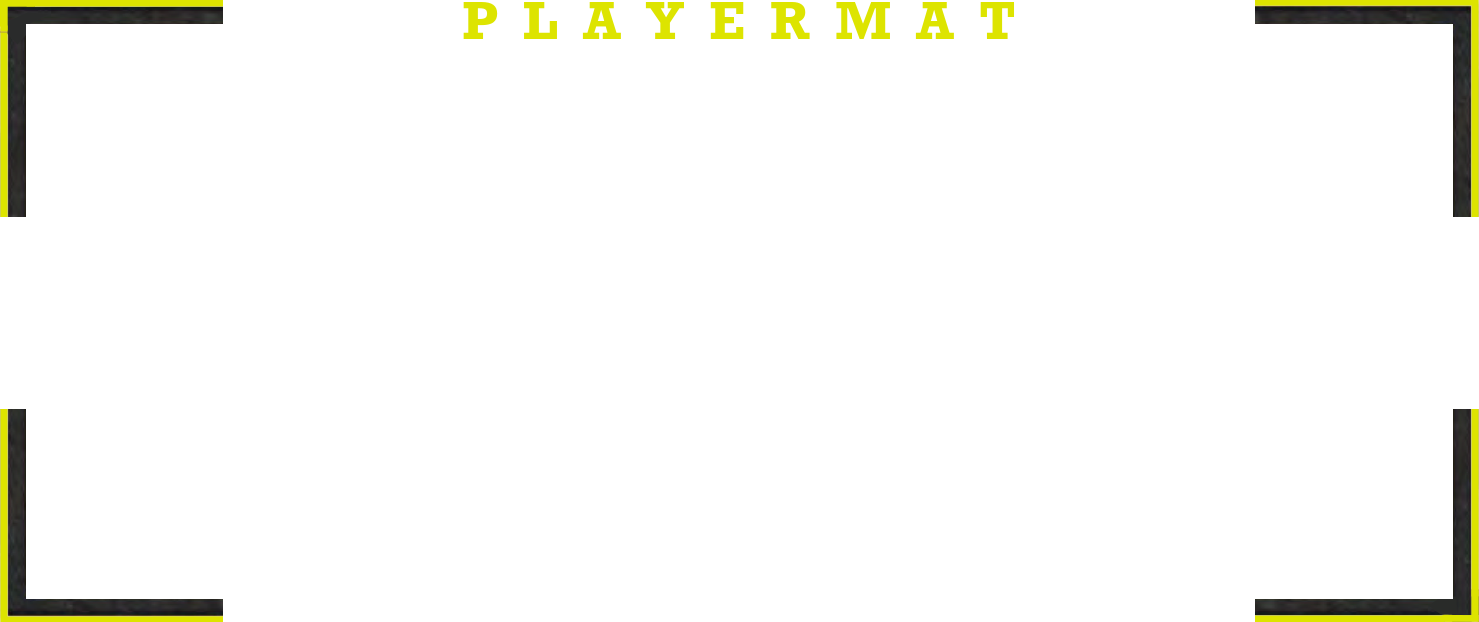
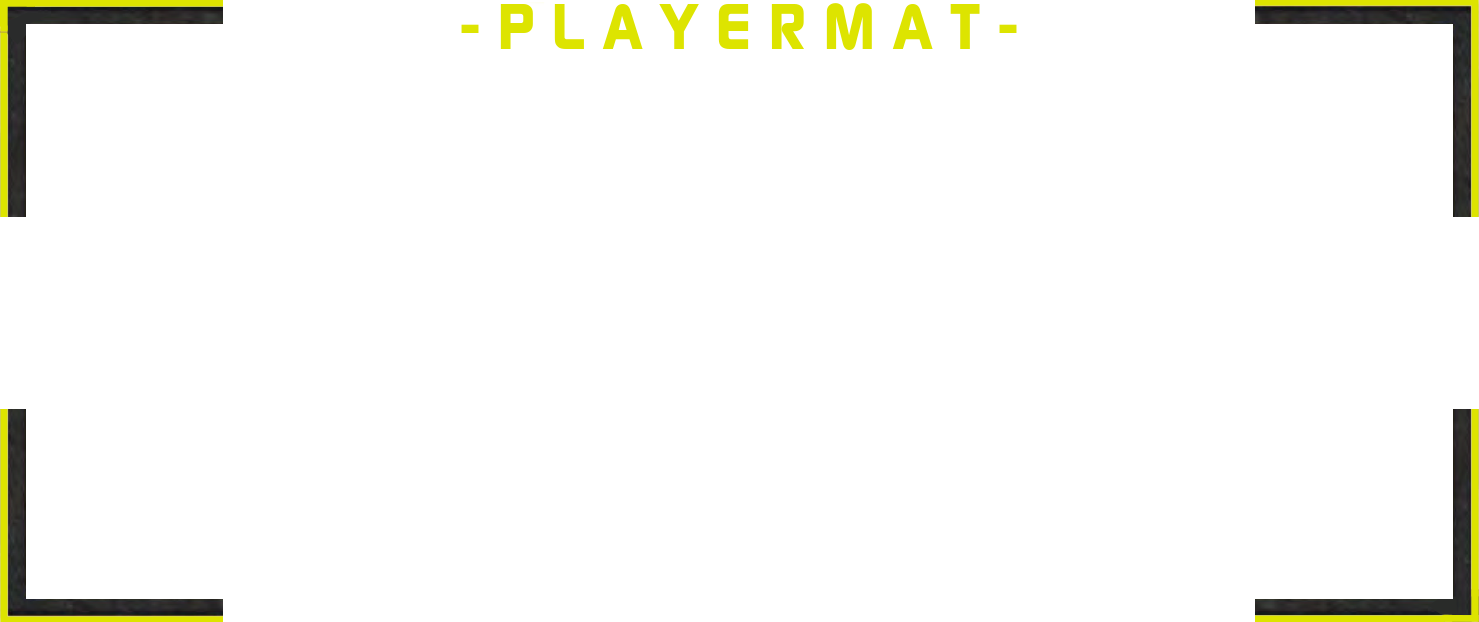
small css changes for init-Dialog and Client

Changed region(s): [[0.311, 0.0, 0.6842, 0.0916]]

diff --git a/src/main/resources/CSSFiles/client.css b/src/main/resources/CSSFiles/client.css
@@ -18,10 +18,10 @@
 }
 
 #avatarNameLabel {
-    -fx-font-size: 24px;
+    -fx-font-size: 40px;
     -fx-font-weight: 900;
-    -fx-font-family: "MyCustomFont";
-    -fx-text-fill: #000000;
+    -fx-font-family: "Digital-Bold";
+    -fx-text-fill: #dde400;
 }
 
 #visibilityButton {

diff --git a/src/main/resources/CSSFiles/init.css b/src/main/resources/CSSFiles/init.css
@@ -57,6 +57,7 @@
     -fx-scale-y: 1.1;
     -fx-max-width: 469px;
     -fx-max-height: 91px;
+    -fx-cursor: "pointer"
 }
 
 .grid-label-robonames {

diff --git a/src/main/java/SEPee/client/viewModel/ClientController.java b/src/main/java/SEPee/client/viewModel/ClientController.java
@@ -222,7 +222,7 @@ public class ClientController {
             if (client.getTakenFigures().contains(i)) {
                 if (imageView != currentSelectedImageView) {
                     imageView.setDisable(true);
-                    imageView.setOpacity(0.1);
+                    imageView.setOpacity(0.4);
                 } else {
                     currentSelectedImageView.setOpacity(1.0);
                     currentSelectedImageView = null;
@@ -252,9 +252,6 @@ public class ClientController {
                     avatarImageView.setImage(image);
                     avatarImageView.setVisible(true);
                     avatarNameLabel.setText(robotNames[robotNumber-1]);
-                    avatarNameLabel.setStyle("-fx-text-fill: #dde400; " +
-                            "-fx-font-size: 40px; " +
-                            "-fx-font-family: 'Impact'");
                     DropShadow dropShadow = new DropShadow();
                     dropShadow.setRadius(10.0);
                     dropShadow.setOffsetX(3.0);
